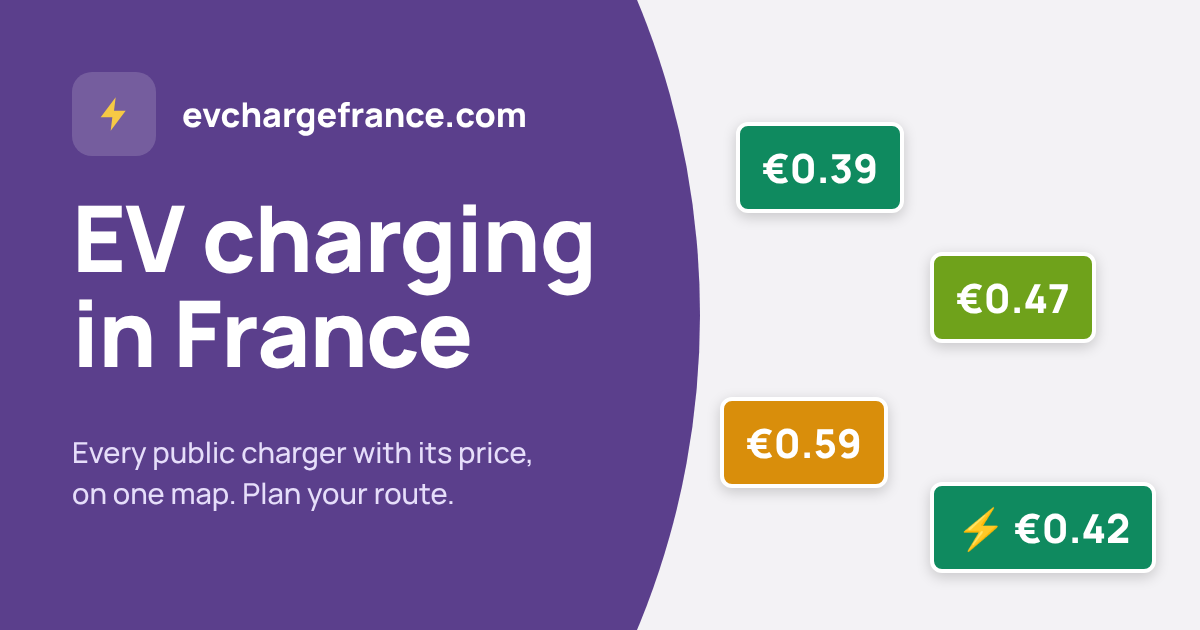
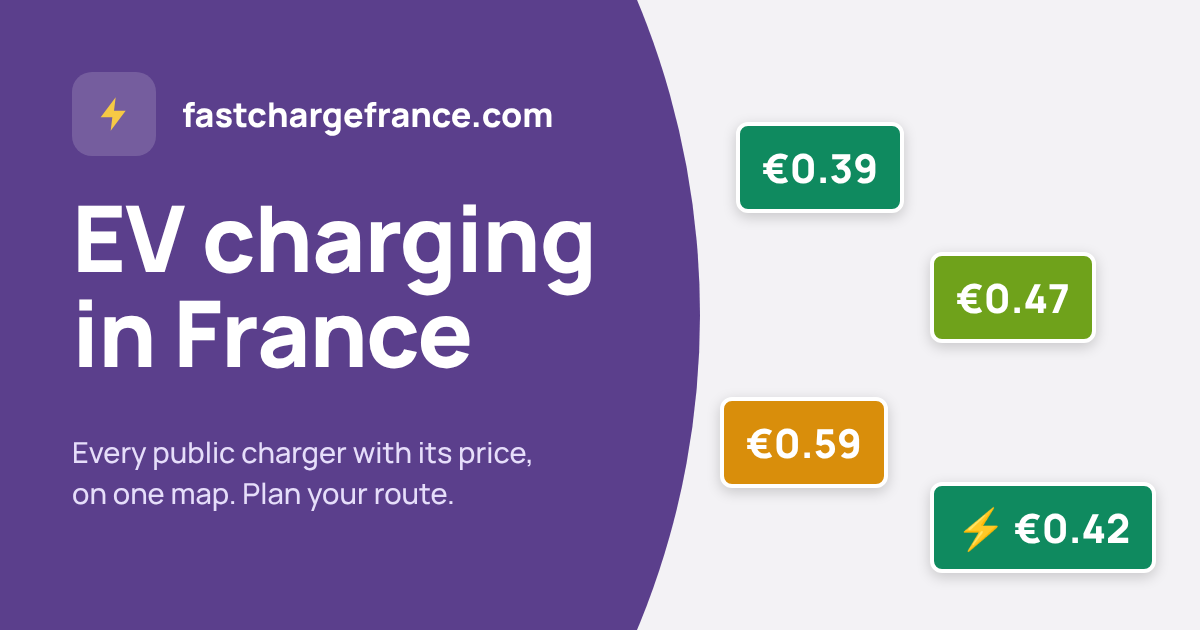
France: fastchargefrance.com is the main domain, brand Fast Charge France (#13)
Bob set up fastchargefrance.com as primary, with evchargefrance.com
redirecting to it. Canonicals, sitemap, robots, manifest, og image,
about pages and the deploy workflow now use it.

Claude-Session: https://claude.ai/code/session_01NYcJr5hozojcApcgPNdNkX

Changed region(s): [[0.1542, 0.1508, 0.4625, 0.2111]]

diff --git a/sites/france/fr/head.html b/sites/france/fr/head.html
@@ -1,18 +1,18 @@
-  <title>Carte des bornes de recharge en France : le prix de chaque borne | EV Charge France</title>
+  <title>Carte des bornes de recharge en France : le prix de chaque borne | Fast Charge France</title>
   <meta name="description" content="Toutes les bornes de recharge publiques de France sur une carte, avec le prix au kWh sans abonnement, les prises libres en ce moment, des filtres bornes rapides et autoroute, les arrêts recharge de votre trajet et la navigation en un geste.">
   <meta name="robots" content="index, follow, max-image-preview:large">
   <meta name="theme-color" content="#f4f3f6" media="(prefers-color-scheme: light)">
   <meta name="theme-color" content="#110e17" media="(prefers-color-scheme: dark)">
-  <link rel="canonical" href="https://evchargefrance.com/fr/">
-  <link rel="alternate" hreflang="en" href="https://evchargefrance.com/">
-  <link rel="alternate" hreflang="fr" href="https://evchargefrance.com/fr/">
-  <link rel="alternate" hreflang="x-default" href="https://evchargefrance.com/">
+  <link rel="canonical" href="https://fastchargefrance.com/fr/">
+  <link rel="alternate" hreflang="en" href="https://fastchargefrance.com/">
+  <link rel="alternate" hreflang="fr" href="https://fastchargefrance.com/fr/">
+  <link rel="alternate" hreflang="x-default" href="https://fastchargefrance.com/">
   <meta property="og:type" content="website">
-  <meta property="og:site_name" content="EV Charge France">
+  <meta property="og:site_name" content="Fast Charge France">
   <meta property="og:title" content="Carte des bornes de recharge en France : le prix de chaque borne">
   <meta property="og:description" content="Toutes les bornes de recharge publiques de France sur une carte, avec le prix au kWh sans abonnement, les prises libres en ce moment et les arrêts recharge de votre trajet.">
-  <meta property="og:url" content="https://evchargefrance.com/fr/">
-  <meta property="og:image" content="https://evchargefrance.com/img/og.png">
+  <meta property="og:url" content="https://fastchargefrance.com/fr/">
+  <meta property="og:image" content="https://fastchargefrance.com/img/og.png">
   <meta property="og:image:width" content="1200">
   <meta property="og:image:height" content="630">
   <meta property="og:image:alt" content="Recharge de voitures électriques en France : les prix sur une carte">
@@ -26,23 +26,23 @@
  {
   "@context": "https://schema.org",
   "@type": "WebSite",
-  "name": "EV Charge France",
+  "name": "Fast Charge France",
   "alternateName": "Bornes de recharge en France",
-  "url": "https://evchargefrance.com/fr/",
+  "url": "https://fastchargefrance.com/fr/",
   "inLanguage": "fr"
  },
  {
   "@context": "https://schema.org",
   "@type": "WebApplication",
   "name": "Carte des bornes de recharge en France",
-  "url": "https://evchargefrance.com/fr/",
+  "url": "https://fastchargefrance.com/fr/",
   "applicationCategory": "TravelApplication",
   "operatingSystem": "Tous (navigateur web)",
   "isAccessibleForFree": true,
   "offers": { "@type": "Offer", "price": "0", "priceCurrency": "EUR" },
   "description": "Toutes les bornes de recharge publiques de France sur une carte, avec le prix au kWh sans abonnement, les prises libres en ce moment, des filtres bornes rapides et autoroute, les arrêts recharge de votre trajet et la navigation en un geste.",
   "areaServed": { "@type": "Country", "name": "France" },
-  "image": "https://evchargefrance.com/img/og.png"
+  "image": "https://fastchargefrance.com/img/og.png"
  },
  {
   "@context": "https://schema.org",

diff --git a/sites/france/head.html b/sites/france/head.html
@@ -1,18 +1,18 @@
-  <title>France EV Charging Map: Prices for Every Charger | EV Charge France</title>
+  <title>France EV Charging Map: Prices for Every Charger | Fast Charge France</title>
   <meta name="description" content="Every public EV charger in France on one map with the price per kWh without a subscription, plugs free right now, fast-charger and motorway filters, charging stops for your route and one-tap navigation.">
   <meta name="robots" content="index, follow, max-image-preview:large">
   <meta name="theme-color" content="#f4f3f6" media="(prefers-color-scheme: light)">
   <meta name="theme-color" content="#110e17" media="(prefers-color-scheme: dark)">
-  <link rel="canonical" href="https://evchargefrance.com/">
-  <link rel="alternate" hreflang="en" href="https://evchargefrance.com/">
-  <link rel="alternate" hreflang="fr" href="https://evchargefrance.com/fr/">
-  <link rel="alternate" hreflang="x-default" href="https://evchargefrance.com/">
+  <link rel="canonical" href="https://fastchargefrance.com/">
+  <link rel="alternate" hreflang="en" href="https://fastchargefrance.com/">
+  <link rel="alternate" hreflang="fr" href="https://fastchargefrance.com/fr/">
+  <link rel="alternate" hreflang="x-default" href="https://fastchargefrance.com/">
   <meta property="og:type" content="website">
-  <meta property="og:site_name" content="EV Charge France">
+  <meta property="og:site_name" content="Fast Charge France">
   <meta property="og:title" content="France EV Charging Map: prices for every charger">
   <meta property="og:description" content="Every public EV charger in France on one map, with the price per kWh without a subscription, plugs free right now and charging stops for your route.">
-  <meta property="og:url" content="https://evchargefrance.com/">
-  <meta property="og:image" content="https://evchargefrance.com/img/og.png">
+  <meta property="og:url" content="https://fastchargefrance.com/">
+  <meta property="og:image" content="https://fastchargefrance.com/img/og.png">
   <meta property="og:image:width" content="1200">
   <meta property="og:image:height" content="630">
   <meta property="og:image:alt" content="EV charging in France: price tags on a map">
@@ -26,23 +26,23 @@
  {
   "@context": "https://schema.org",
   "@type": "WebSite",
-  "name": "EV Charge France",
+  "name": "Fast Charge France",
   "alternateName": "France EV Chargers",
-  "url": "https://evchargefrance.com/",
+  "url": "https://fastchargefrance.com/",
   "inLanguage": "en"
  },
  {
   "@context": "https://schema.org",
   "@type": "WebApplication",
   "name": "France EV Charging Map",
-  "url": "https://evchargefrance.com/",
+  "url": "https://fastchargefrance.com/",
   "applicationCategory": "TravelApplication",
   "operatingSystem": "Any (web browser)",
   "isAccessibleForFree": true,
   "offers": { "@type": "Offer", "price": "0", "priceCurrency": "EUR" },
   "description": "Every public EV charger in France on one map with the price per kWh without a subscription, plugs free right now, fast-charger and motorway filters, charging stops for your route and one-tap navigation.",
   "areaServed": { "@type": "Country", "name": "France" },
-  "image": "https://evchargefrance.com/img/og.png"
+  "image": "https://fastchargefrance.com/img/og.png"
  },
  {
   "@context": "https://schema.org",

diff --git a/sites/france/fr/about.html b/sites/france/fr/about.html
@@ -1,6 +1,6 @@
           <section class="about" aria-labelledby="about-title">
             <h1 id="about-title">Bornes de recharge en France</h1>
-            <p>EV Charge France montre toutes les bornes de recharge publiques de France métropolitaine et de Corse sur une seule carte, environ 46 000 stations, avec le prix au kWh que vous payez sans abonnement, TTC. Quand une borne ne publie pas son propre prix, la carte affiche le prix habituel de son réseau, précédé d'un ~. Voyez quelles prises sont libres en ce moment, filtrez par puissance, type de prise, paiement par carte ou aires d'autoroute, prévoyez les arrêts recharge selon l'autonomie de votre voiture et lancez la navigation avec Google Maps, Apple Plans ou Waze.</p>
+            <p>Fast Charge France montre toutes les bornes de recharge publiques de France métropolitaine et de Corse sur une seule carte, environ 46 000 stations, avec le prix au kWh que vous payez sans abonnement, TTC. Quand une borne ne publie pas son propre prix, la carte affiche le prix habituel de son réseau, précédé d'un ~. Voyez quelles prises sont libres en ce moment, filtrez par puissance, type de prise, paiement par carte ou aires d'autoroute, prévoyez les arrêts recharge selon l'autonomie de votre voiture et lancez la navigation avec Google Maps, Apple Plans ou Waze.</p>
             <details><summary>Combien coûte la recharge d'une voiture électrique en France ?</summary><p>Sans abonnement, la plupart des bornes rapides en France coûtent environ 0,40 € à 0,65 € le kWh TTC, et les aires d'autoroute sont en général en haut de cette fourchette, vers 0,60 € à 0,70 €. Les bornes lentes (AC) en ville coûtent souvent 0,20 € à 0,50 € le kWh, mais certaines ajoutent un prix à la minute. La carte affiche le prix de chaque borne qui en publie un, ainsi que le prix habituel des grands réseaux, en couleurs du moins cher au plus cher.</p></details>
             <details><summary>Comment payer à une borne de recharge sans abonnement ?</summary><p>Les bornes rapides récentes doivent accepter la carte bancaire, et la plupart des autres permettent de payer sur place en scannant un QR code. Chaque borne de la carte indique si elle accepte la carte. Les badges et applis comme Chargemap ou Freshmile fonctionnent aussi presque partout, parfois à un autre prix. Les Superchargeurs Tesla se démarrent dans l'appli Tesla.</p></details>
             <details><summary>Où sont les bornes rapides sur les autoroutes françaises ?</summary><p>Touchez « 50 kW+ » et choisissez « Aires d'autoroute » dans Filtres. La plupart des aires de service ont des bornes rapides TotalEnergies, Ionity, Electra, Fastned, Engie Vianeo ou Tesla, et les supermarchés comme Lidl ou Leclerc sont souvent moins chers juste à la sortie.</p></details>

diff --git a/sites/france/about.html b/sites/france/about.html
@@ -1,6 +1,6 @@
           <section class="about" aria-labelledby="about-title">
             <h1 id="about-title">EV charging in France</h1>
-            <p>EV Charge France shows every public electric car charger in mainland France and Corsica on one map, about 46,000 sites, with the price per kWh you pay without a subscription, incl. VAT. Where a charger doesn't publish its own price, the map shows its network's usual price with a ~. See which plugs are free right now, filter by speed, plug type, card payment or motorway service areas, plan charging stops for your car's range, and tap to navigate with Google Maps, Apple Maps or Waze.</p>
+            <p>Fast Charge France shows every public electric car charger in mainland France and Corsica on one map, about 46,000 sites, with the price per kWh you pay without a subscription, incl. VAT. Where a charger doesn't publish its own price, the map shows its network's usual price with a ~. See which plugs are free right now, filter by speed, plug type, card payment or motorway service areas, plan charging stops for your car's range, and tap to navigate with Google Maps, Apple Maps or Waze.</p>
             <details><summary>How much does it cost to charge an EV in France?</summary><p>Without a subscription, most fast chargers in France cost about €0.40 to €0.65 per kWh including VAT, and motorway service areas are usually at the top of that range, around €0.60 to €0.70. Slower AC chargers in towns often cost €0.20 to €0.50 per kWh, but some add a fee per minute. The map shows a price for every charger that publishes one, plus the usual price of the big networks, coloured from cheap to expensive.</p></details>
             <details><summary>How do I pay at EV chargers in France without a subscription?</summary><p>Newer fast chargers must take a bank card, and most others let you pay on the spot by scanning a QR code. Each charger on the map says whether it takes a card. Charging cards and apps such as Chargemap or Freshmile work at most chargers too, sometimes at a different price. Tesla Superchargers are started in the Tesla app.</p></details>
             <details><summary>Where are the fast chargers on French motorways?</summary><p>Tap “50 kW+” and choose “Motorway service areas” under Filters. Most motorway service areas (aires) have fast chargers from TotalEnergies, Ionity, Electra, Fastned, Engie Vianeo or Tesla, and supermarkets such as Lidl and Leclerc are often cheaper just off the motorway.</p></details>

diff --git a/app.js b/app.js
@@ -1,4 +1,4 @@
-/* Madeira Chargers / Charge Portugal / EV Charge France: static map, no cookies.
+/* Madeira Chargers / Charge Portugal / Fast Charge France: static map, no cookies.
    One code base, three sites; scripts/build-site.mjs makes each. */
 (() => {
   "use strict";

diff --git a/sites/france/site.css b/sites/france/site.css
@@ -1,5 +1,5 @@
 
-/* ---------- EV Charge France: Provence lavender instead of Madeira green ---------- */
+/* ---------- Fast Charge France: Provence lavender instead of Madeira green ---------- */
 :root {
   --ground: #f4f3f6;
   --line: #e0dde6;

diff --git a/README.md b/README.md
@@ -35,9 +35,9 @@ The build fails if a marker or a `site.json` text can't be found, or if the Port
 
 GitHub Pages serves one custom domain per repo, so chargeportugal.com is published by the separate **PartyTrix/chargeportugal** repo. It contains only `sites/portugal/deploy.yml` (as `.github/workflows/deploy.yml`), which checks out this repo every 15 minutes, fetches the live plug status, builds the Portugal site and deploys it. Nothing to maintain there; run it by hand from its Actions tab to publish a change straight away. Each site's About section links to the other. GoatCounter counts both in one dashboard; chargeportugal.com page views show under `/portugal/`.
 
-## France: evchargefrance.com
+## France: fastchargefrance.com
 
-`node scripts/build-site.mjs france _site` builds **evchargefrance.com** (lavender look, English at `/`, French at `/fr/`) from the same code plus `sites/france/`, but with France's own data, which is built rather than committed:
+`node scripts/build-site.mjs france _site` builds **fastchargefrance.com** (lavender look, English at `/`, French at `/fr/`) from the same code plus `sites/france/`, but with France's own data, which is built rather than committed:
 
 | | |
 |---|---|
